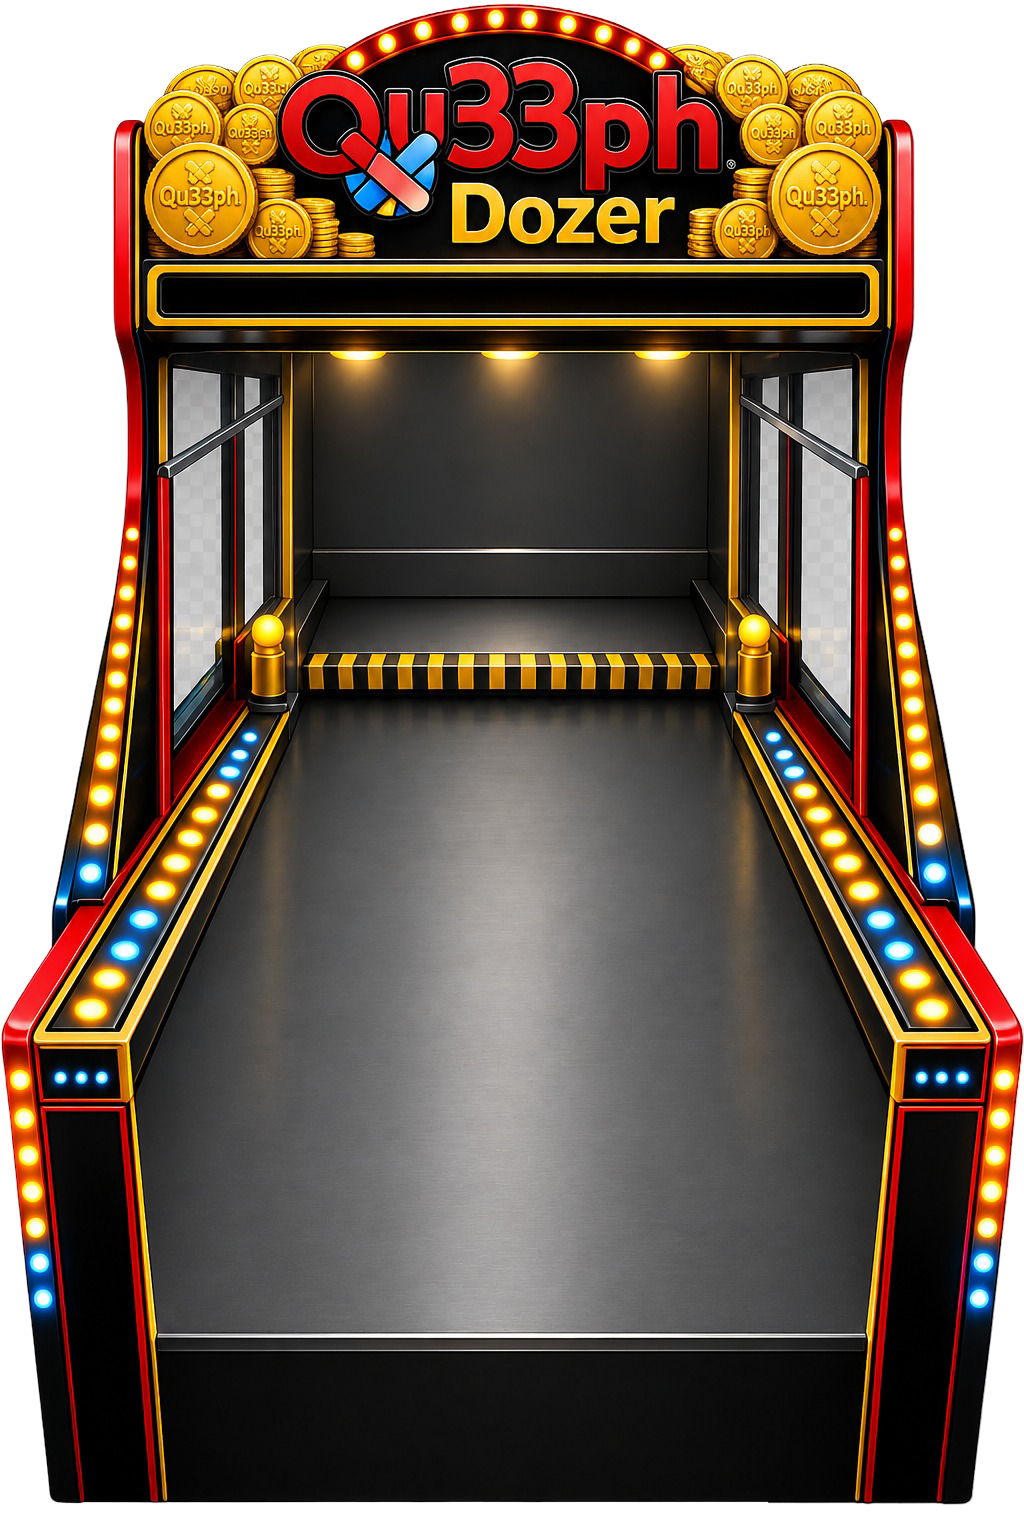
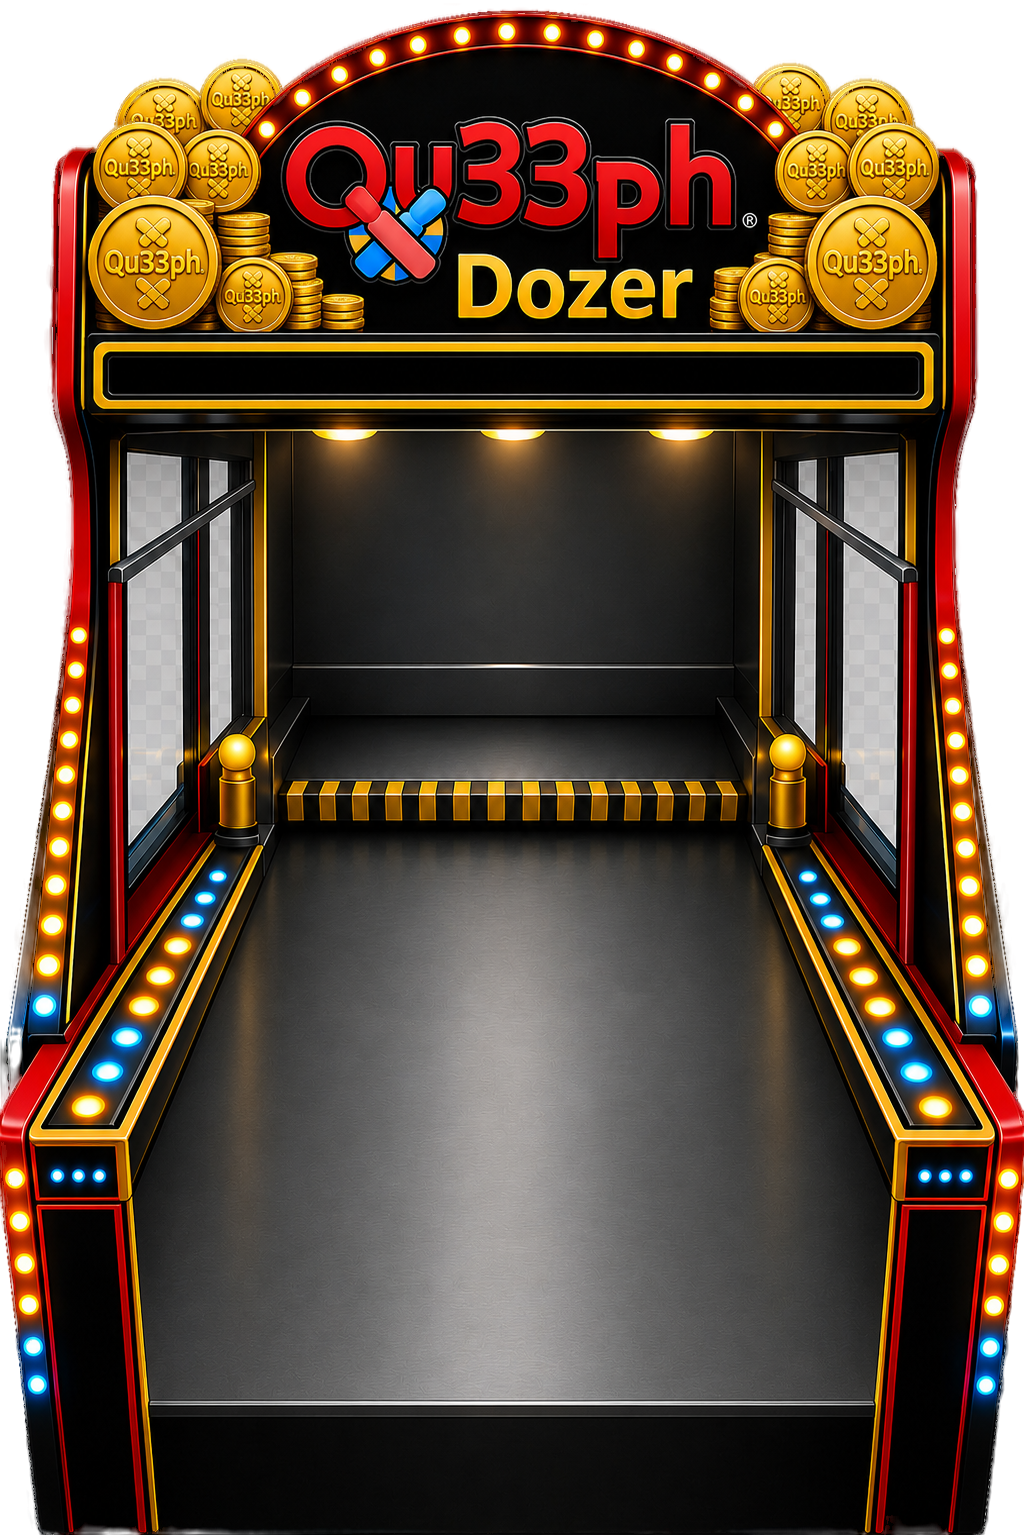
Add files via upload
updated dozerfield logo and pinball

diff --git a/index.html b/index.html
@@ -688,7 +688,7 @@
   </style>
 </head>
 <body>
-<div id="verBadge" style="position:fixed;bottom:6px;right:8px;font-family:Helvetica,Arial,sans-serif;font-size:10px;color:#444;z-index:99999;letter-spacing:1px;pointer-events:none;">v351</div>
+<div id="verBadge" style="position:fixed;bottom:6px;right:8px;font-family:Helvetica,Arial,sans-serif;font-size:10px;color:#444;z-index:99999;letter-spacing:1px;pointer-events:none;">v353</div>
 
 <canvas id="game"></canvas>
 
@@ -747,7 +747,7 @@
     <div class="cab-card" id="cabFlip" onclick="launchFlip()"><div class="flipbox"><img src="blue.png" onerror="this.style.opacity=0.2"></div><div class="cab-label">QU33PH FLIP</div></div>
     <div class="cab-card" id="cabSkee" onclick="launchSkee()"><img src="qu33phball.png" style="width:100%;aspect-ratio:150/230;max-height:168px;object-fit:contain;border-radius:14px;box-sizing:border-box;" onerror="this.style.opacity=0.2"><div class="cab-label">QU33PH-BALL</div></div>
     <div class="cab-card" id="cabDozer" onclick="launchDozer()"><img src="dozerfield.png?v=317" style="width:100%;aspect-ratio:150/230;max-height:168px;object-fit:contain;border-radius:14px;box-sizing:border-box;" onerror="this.style.opacity=0.2"><div class="cab-label">QU33PH DOZER</div></div>
-    <div class="cab-card" id="cabMini" onclick="launchMini()"><img src="minicabinet.png?v=351" onerror="this.style.opacity=0.2"><div class="cab-label">MINI QU33PH</div></div>
+    <div class="cab-card" id="cabMini" onclick="launchMini()"><img src="minicabinet.png?v=353" onerror="this.style.opacity=0.2"><div class="cab-label">MINI QU33PH</div></div>
   </div>
   <button class="mk-btn back-tl" onclick="arcadeBack()" style="margin-top:16px;">← BACK</button>
 </div>
@@ -4636,11 +4636,11 @@ function launchGolf(){ try{pfMusicStop();}catch(e){} document.getElementById("ar
 function golfBack(){ var f=document.getElementById("golfFrame"); try{ f.setAttribute("src","about:blank"); }catch(e){} document.getElementById("golfScreen").style.display="none"; showArcadeMenu(); }
 function launchFidget(){ try{pfMusicStop();}catch(e){} document.getElementById("arcadeMenu").style.display="none"; var s=document.getElementById("fidgetScreen"); s.style.display="block"; var f=document.getElementById("fidgetFrame"); var _t=(typeof styleOf==="function"?styleOf():currentTheme); f.setAttribute("src","fidget.html?theme="+encodeURIComponent(_t)); arcadeGame="fidget"; try{ haptic(10); }catch(e){} }
 function fidgetBack(){ var f=document.getElementById("fidgetFrame"); try{ f.setAttribute("src","about:blank"); }catch(e){} document.getElementById("fidgetScreen").style.display="none"; showArcadeMenu(); }
-function launchMini(){ try{pfMusicStop();}catch(e){} document.getElementById("arcadeMenu").style.display="none"; document.getElementById("miniScreen").style.display="block"; var f=document.getElementById("miniFrame"); var _t=(typeof styleOf==="function"?styleOf():currentTheme); f.setAttribute("src","mini.html?v=351&theme="+encodeURIComponent(_t)); arcadeGame="mini"; try{ haptic(10); }catch(e){} }
+function launchMini(){ try{pfMusicStop();}catch(e){} document.getElementById("arcadeMenu").style.display="none"; document.getElementById("miniScreen").style.display="block"; var f=document.getElementById("miniFrame"); var _t=(typeof styleOf==="function"?styleOf():currentTheme); f.setAttribute("src","mini.html?v=353&theme="+encodeURIComponent(_t)); arcadeGame="mini"; try{ haptic(10); }catch(e){} }
 function miniBack(){ var f=document.getElementById("miniFrame"); try{ f.setAttribute("src","about:blank"); }catch(e){} document.getElementById("miniScreen").style.display="none"; showArcadeMenu(); }
-function launchStack(){ try{pfMusicStop();}catch(e){} document.getElementById("arcadeMenu").style.display="none"; var sc=document.getElementById("stackScreen"); sc.style.display="block"; var f=document.getElementById("stackFrame"); var _t=(typeof styleOf==="function"?styleOf():currentTheme); f.setAttribute("src","stack.html?v=351&theme="+encodeURIComponent(_t)); arcadeGame="stack"; try{ haptic(10); }catch(e){} }
+function launchStack(){ try{pfMusicStop();}catch(e){} document.getElementById("arcadeMenu").style.display="none"; var sc=document.getElementById("stackScreen"); sc.style.display="block"; var f=document.getElementById("stackFrame"); var _t=(typeof styleOf==="function"?styleOf():currentTheme); f.setAttribute("src","stack.html?v=353&theme="+encodeURIComponent(_t)); arcadeGame="stack"; try{ haptic(10); }catch(e){} }
 function stackBack(){ var f=document.getElementById("stackFrame"); try{ f.setAttribute("src","about:blank"); }catch(e){} document.getElementById("stackScreen").style.display="none"; showArcadeMenu(); }
-function launchSkee(){ try{pfMusicStop();}catch(e){} document.getElementById("arcadeMenu").style.display="none"; var sc=document.getElementById("skeeScreen"); sc.style.display="block"; var f=document.getElementById("skeeFrame"); var _t=(typeof styleOf==="function"?styleOf():currentTheme); f.setAttribute("src","qu33phball.html?v=351&theme="+encodeURIComponent(_t)); arcadeGame="skee"; try{ haptic(10); }catch(e){} }
+function launchSkee(){ try{pfMusicStop();}catch(e){} document.getElementById("arcadeMenu").style.display="none"; var sc=document.getElementById("skeeScreen"); sc.style.display="block"; var f=document.getElementById("skeeFrame"); var _t=(typeof styleOf==="function"?styleOf():currentTheme); f.setAttribute("src","qu33phball.html?v=353&theme="+encodeURIComponent(_t)); arcadeGame="skee"; try{ haptic(10); }catch(e){} }
 function skeeBack(){ var f=document.getElementById("skeeFrame"); try{ f.setAttribute("src","about:blank"); }catch(e){} document.getElementById("skeeScreen").style.display="none"; showArcadeMenu(); }
 function orientFlipIcon(im){
   im = im || document.querySelector("#cabFlip img"); if(!im) return;
@@ -4651,9 +4651,9 @@ function orientFlipIcon(im){
   };
   if(im.complete && im.naturalWidth) set(); else im.onload=set;
 }
-function launchFlip(){ try{pfMusicStop();}catch(e){} document.getElementById("arcadeMenu").style.display="none"; var sc=document.getElementById("flipScreen"); sc.style.display="block"; var f=document.getElementById("flipFrame"); var _t=(typeof styleOf==="function"?styleOf():currentTheme); f.setAttribute("src","flip.html?v=351&theme="+encodeURIComponent(_t)); arcadeGame="flip"; try{ haptic(10); }catch(e){} }
+function launchFlip(){ try{pfMusicStop();}catch(e){} document.getElementById("arcadeMenu").style.display="none"; var sc=document.getElementById("flipScreen"); sc.style.display="block"; var f=document.getElementById("flipFrame"); var _t=(typeof styleOf==="function"?styleOf():currentTheme); f.setAttribute("src","flip.html?v=353&theme="+encodeURIComponent(_t)); arcadeGame="flip"; try{ haptic(10); }catch(e){} }
 function flipBack(){ var f=document.getElementById("flipFrame"); try{ f.setAttribute("src","about:blank"); }catch(e){} document.getElementById("flipScreen").style.display="none"; showArcadeMenu(); }
-function launchDozer(){ try{pfMusicStop();}catch(e){} document.getElementById("arcadeMenu").style.display="none"; var sc=document.getElementById("dozerScreen"); sc.style.display="block"; var f=document.getElementById("dozerFrame"); var _t=(typeof styleOf==="function"?styleOf():currentTheme); f.setAttribute("src","dozer.html?v=351&theme="+encodeURIComponent(_t)); arcadeGame="dozer"; try{ haptic(10); }catch(e){} }
+function launchDozer(){ try{pfMusicStop();}catch(e){} document.getElementById("arcadeMenu").style.display="none"; var sc=document.getElementById("dozerScreen"); sc.style.display="block"; var f=document.getElementById("dozerFrame"); var _t=(typeof styleOf==="function"?styleOf():currentTheme); f.setAttribute("src","dozer.html?v=353&theme="+encodeURIComponent(_t)); arcadeGame="dozer"; try{ haptic(10); }catch(e){} }
 function dozerBack(){ var f=document.getElementById("dozerFrame"); try{ f.setAttribute("src","about:blank"); }catch(e){} document.getElementById("dozerScreen").style.display="none"; showArcadeMenu(); }
 function showCharSelect(){ pfMusicStop(); showPlatformer("charselect"); }
 function csNav(dir){ pfCharIdx=(pfCharIdx+dir+PF_CHARS.length)%PF_CHARS.length; try{haptic(6);}catch(e){} }
@@ -5401,7 +5401,7 @@ const jgJumpL=new Image(); jgJumpL.src="jump_jumpL.png";  // airborne, facing le
 // ── playable characters ──────────────────────────────────────────────────
 // Qu33ph has hand-drawn left AND right art. The other three only have right-facing
 // art, so they get mirrored on the canvas when facing left.
-var CHAR_V="351";   // bump when character art is replaced, so browsers drop the cached copy
+var CHAR_V="353";   // bump when character art is replaced, so browsers drop the cached copy
 function CIMG(src){ var i=new Image(); i.src=src+"?v="+CHAR_V; return i; }
 var PF_CHARS=[
   { id:"qu33ph", name:"QU33PH",     cls:"human", speed:1,   jump:1,     grav:1,    airJumps:0, note:"",
@@ -7005,6 +7005,45 @@ function pbFlipperCollide(px,py,ang,len,b,active){
     try{ if(active>0.4)haptic(6); }catch(e){}
   }
 }
+// ── the two solid triangles beside the flippers ──────────────────────────
+// Traced from the shapes drawn straight onto pinball.png, then converted out of
+// image space into playfield coords, so the collision matches the artwork exactly.
+var PB_TRIS=[
+  [[0.000,0.936],[0.033,0.789],[0.092,0.780],[0.205,0.957],[0.198,1.035],[0.125,1.041],[0.003,0.948]],
+  [[0.915,0.891],[0.870,1.059],[0.785,1.074],[0.715,1.038],[0.792,0.822],[0.877,0.798],[0.912,0.876]]
+];
+function pbInPoly(px,py,poly){
+  var inside=false;
+  for(var i=0,j=poly.length-1;i<poly.length;j=i++){
+    var xi=poly[i][0], yi=poly[i][1], xj=poly[j][0], yj=poly[j][1];
+    if(((yi>py)!==(yj>py)) && (px < (xj-xi)*(py-yi)/((yj-yi)||1e-9)+xi)) inside=!inside;
+  }
+  return inside;
+}
+// push the ball back out along the nearest edge and bounce it
+function pbTriCollide(b){
+  for(var t=0;t<PB_TRIS.length;t++){
+    var poly=PB_TRIS[t];
+    if(!pbInPoly(b.x,b.y,poly)) continue;
+    var bestD=1e9,bnx=0,bny=0,bcx=0,bcy=0;
+    for(var i=0,j=poly.length-1;i<poly.length;j=i++){
+      var ax=poly[j][0], ay=poly[j][1], cx2=poly[i][0], cy2=poly[i][1];
+      var dx=cx2-ax, dy=cy2-ay, L2=(dx*dx+dy*dy)||1e-9;
+      var u=Math.max(0,Math.min(1,((b.x-ax)*dx+(b.y-ay)*dy)/L2));
+      var qx=ax+dx*u, qy=ay+dy*u;
+      var d=Math.hypot(b.x-qx,b.y-qy);
+      if(d<bestD){ bestD=d; bcx=qx; bcy=qy; }
+    }
+    var nx=b.x-bcx, ny=b.y-bcy, nl=Math.hypot(nx,ny)||1e-9;
+    nx/=nl; ny/=nl;
+    b.x=bcx+nx*(PB_R*0.9); b.y=bcy+ny*(PB_R*0.9);
+    var dot=b.vx*nx+b.vy*ny;
+    if(dot<0){ b.vx-=1.6*dot*nx; b.vy-=1.6*dot*ny; }
+    try{ haptic(5); }catch(e){}
+    return true;
+  }
+  return false;
+}
 function pbUpdate(){ var W=pbW,H=pbH,b=pbBall; if(!b)return;
   pbFL+=(pbFLtarget-pbFL)*0.5; pbFR+=(pbFRtarget-pbFR)*0.5;
   if(pbMsgT>0&&pbMsgT<900)pbMsgT--; if(pbMega.flash>0)pbMega.flash--;
@@ -7049,6 +7088,7 @@ function pbUpdate(){ var W=pbW,H=pbH,b=pbBall; if(!b)return;
       bp.hit=8; pbScore+=(bp.sling?25:100); try{haptic(6);}catch(e){} } }
   if(b.x>pbChair.x-PB_R&&b.x<pbChair.x+pbChair.w+PB_R&&b.y>pbChair.y-PB_R&&b.y<pbChair.y+pbChair.h+PB_R&&b.vy>-0.01&&pbChairCD<=0){ pbChairCD=22; b.y=pbChair.y-PB_R; b.vx=0.026; b.vy=-0.078; b.toMega=true; b.megaT=0; pbScore+=250; pbMsg="TO MEGA!";pbMsgT=45; try{haptic([15,15]);}catch(e){} }
   if(b.toMega && b.y<0.11 && b.x>pbMega.x-0.05 && b.x<pbMega.x+pbMega.w+0.05){ pbScore+=1000;pbMega.flash=50;pbMsg="MEGA! +1000";pbMsgT=70; b.toMega=false; b.megaT=0; b.vy=0.014; b.vx=(0.5-b.x)*0.02; try{haptic([25,15,35]);}catch(e){} }
+  pbTriCollide(b);
   pbFlipperCollide(0.22,1.02, 0.5-pbFL*1.0, 0.20, b, pbFL);
   pbFlipperCollide(0.70,1.05, (Math.PI-0.5)+pbFR*1.0, 0.20, b, pbFR);
   if(b.y>1.18){ pbBalls--; if(pbBalls<=0){pbState="over";pbMsg="GAME OVER";pbMsgT=999; if(pbScore>pbHigh){pbHigh=pbScore; try{localStorage.setItem("qu33phPinballHigh",pbHigh);}catch(e){}} } else pbNewBall(); }
